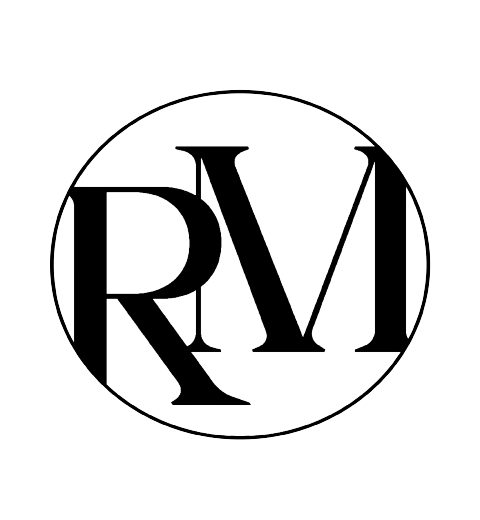
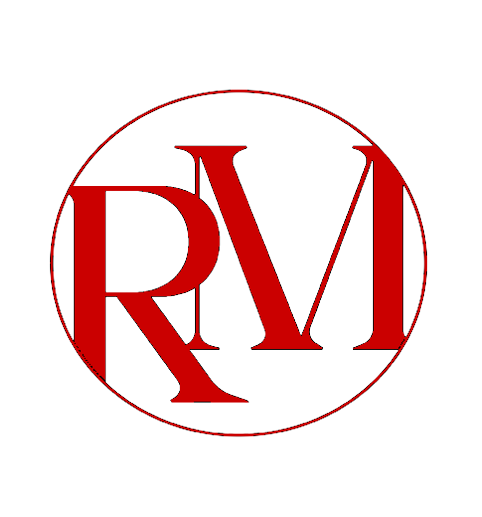
cambios

diff --git a/app/includes/css/custom/style.css b/app/includes/css/custom/style.css
@@ -1,30 +1,4 @@
-.img__logo {
-    width: 70px;
-    margin-left: 30px;
-}
-
-.btn {
-    border-radius: 20px;
-}
-
-.container {
-    border: 2px solid #000;
-    ;
-}
-
 body {
-    background: linear-gradient(to bottom, rgba(255, 255, 255, 0.15) 0%, rgba(0, 0, 0, 0.15) 100%), radial-gradient(at top center, rgba(255, 255, 255, 0.40) 0%, rgba(0, 0, 0, 0.40) 120%) #989898;
-    background-blend-mode: multiply, multiply;  
-}
-
-.gray{
-    color: #5b5959; 
-}
-.bg-light {
-    background: transparent;
-}  
-.img__title{
-    width: 300px;
-    margin: auto;
-    border-radius: 20px;
+    background: linear-gradient(to bottom, #312e2e 0%, rgba(0, 0, 0, 0.15) 100%), radial-gradient(at top center, #464343 0%, #312e2e 120%) #989898;
+    background-blend-mode: multiply, multiply;
 }

diff --git a/index.php b/index.php
@@ -8,7 +8,7 @@ include_once "app/autoloader.php";
     <?php $sections->css(); ?>
 </head>
 
-<nav class="navbar navbar-expand-lg navbar-light    ">
+<nav class="navbar navbar-expand-lg navbar-light">
     <div class="container-fluid fs-5">
         <a class="navbar-brand" href="#"><img class="img__logo" src="app/assets/img/RMC.png" alt=""></a>
         <button class="navbar-toggler" type="button" data-bs-toggle="collapse" data-bs-target="#navbarText" aria-controls="navbarText" aria-expanded="false" aria-label="Toggle navigation">
@@ -23,7 +23,7 @@ include_once "app/autoloader.php";
                     <a class="nav-link active" aria-current="page" href="#">Home</a>
                 </li>
                 <li class="nav-item">
-                    <button type="button" class="btn btn-outline-danger fs-5 img__nav">Say Hello</button>
+                    <button type="button" class="btn btn-outline-light fs-5 img__nav">Say Hello</button>
                 </li>
             </ul>
         </div>
@@ -31,15 +31,15 @@ include_once "app/autoloader.php";
 </nav>
 <main>
     <div class="container col-16 mt-5">
-        <div class="row text-center">
+        <div class="row text-center title">
             <h1>Hi! my name is Richard Mandujano.</h1>
-            <p class="fs-5 gray">
+            <p class="fs-5">
                 I'm a FullStack Web Developer and UI/UX javascript specialist.
             </p>
         </div>
 
         <div class="row img__title text-center">
-            <img class="img__title" src="app/assets/img/RMC.png" alt="">
+            <img class="" src="app/assets/img/RMC.png" alt="">
         </div>
 
     </div>
@@ -49,3 +49,52 @@ include_once "app/autoloader.php";
 </body>
 
 </html>
+
+<style>
+    .img__logo {
+        width: 70px;
+        margin-left: 30px;
+    }
+
+    h1 {
+        color: #CB0000;
+    }
+
+    p {
+        color: #CB0000;
+    }
+
+    .btn {
+        border-radius: 20px;
+    }
+
+    .container {
+        border: 0px solid #000;
+    }
+
+    .title {
+        border-top: 0px solid #CB0000;
+        border-bottom: 0px solid #CB0000;
+    }
+
+    .bg-light {
+        background: transparent;
+    }
+
+    .img__title {
+        width: 300px;
+        margin: auto;
+        border-radius: 20px;
+    }
+
+    .link.active {
+        color: #CB0000;
+    }
+ 
+    .btn-outline-light {
+    color: #CB0000;
+    background-color: transparent;
+    background-image: none;
+    border-color: #cb0000;
+}
+</style>
